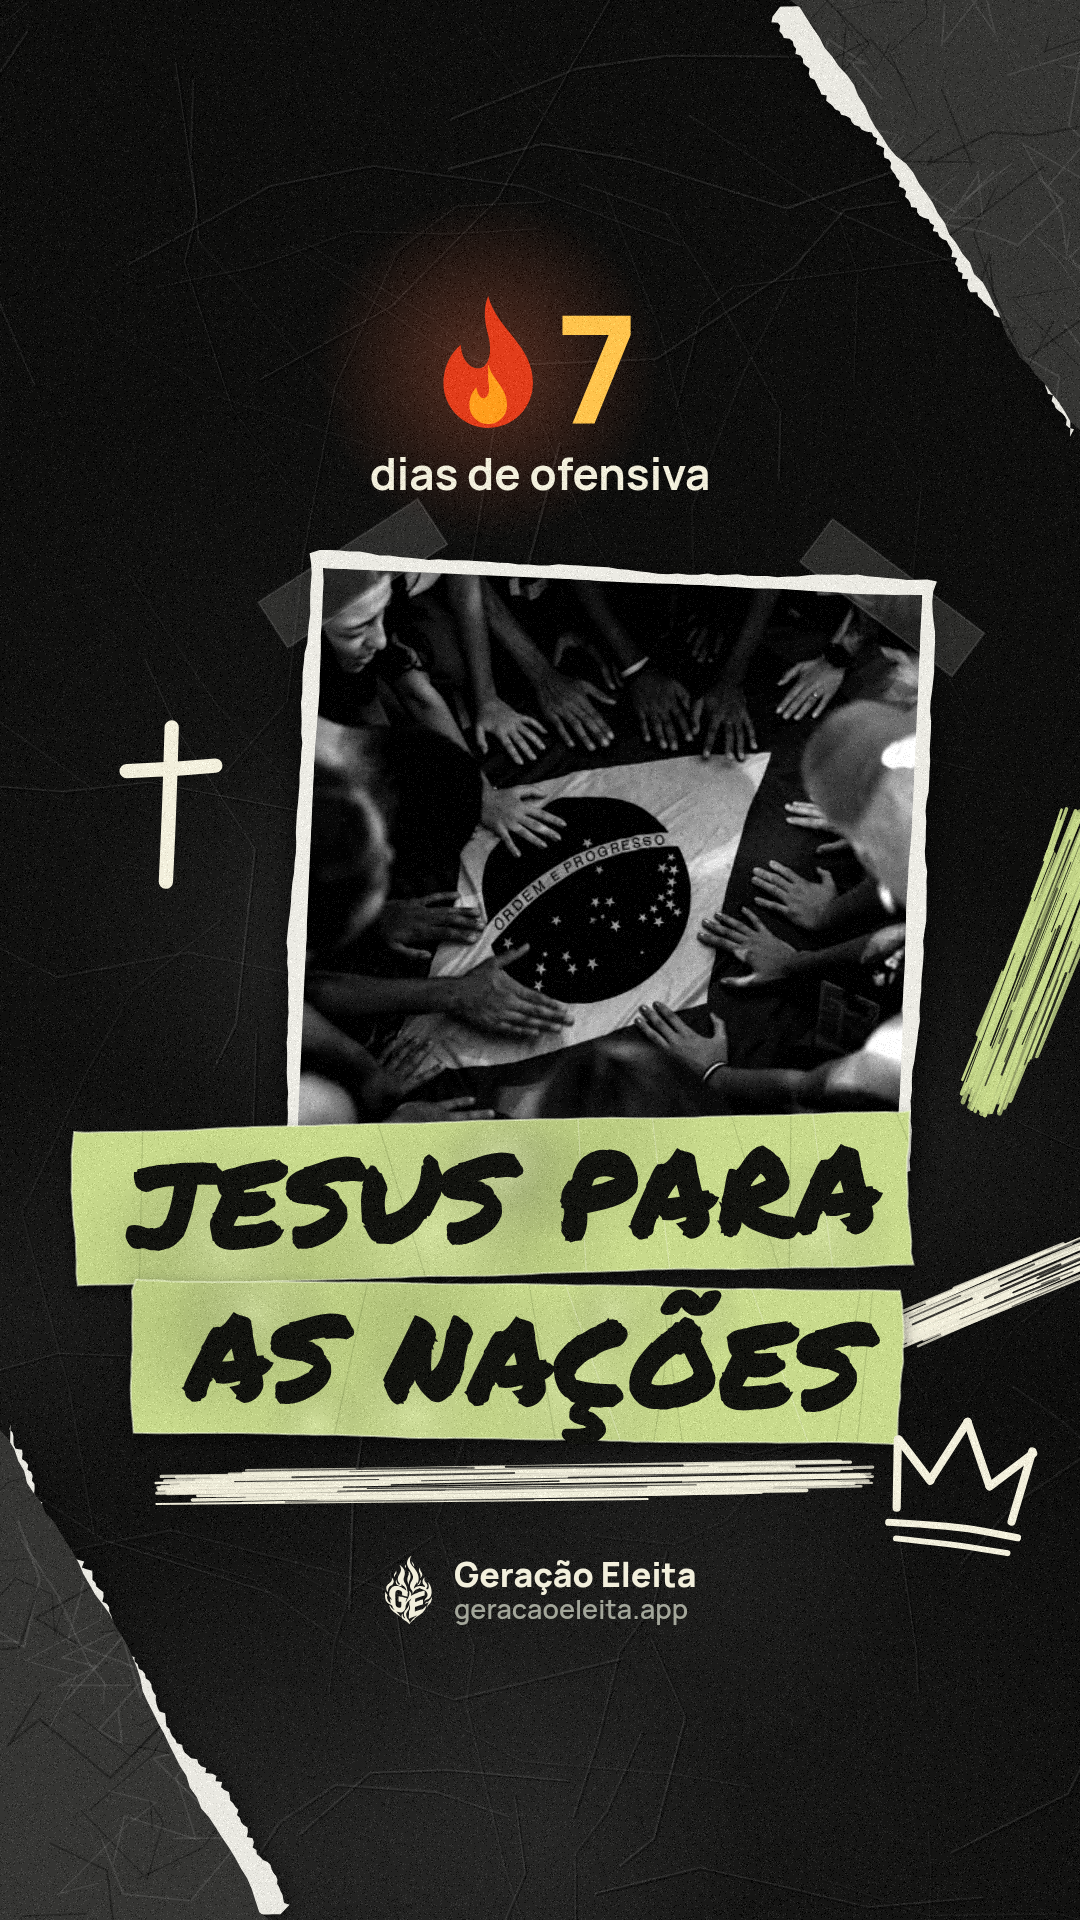
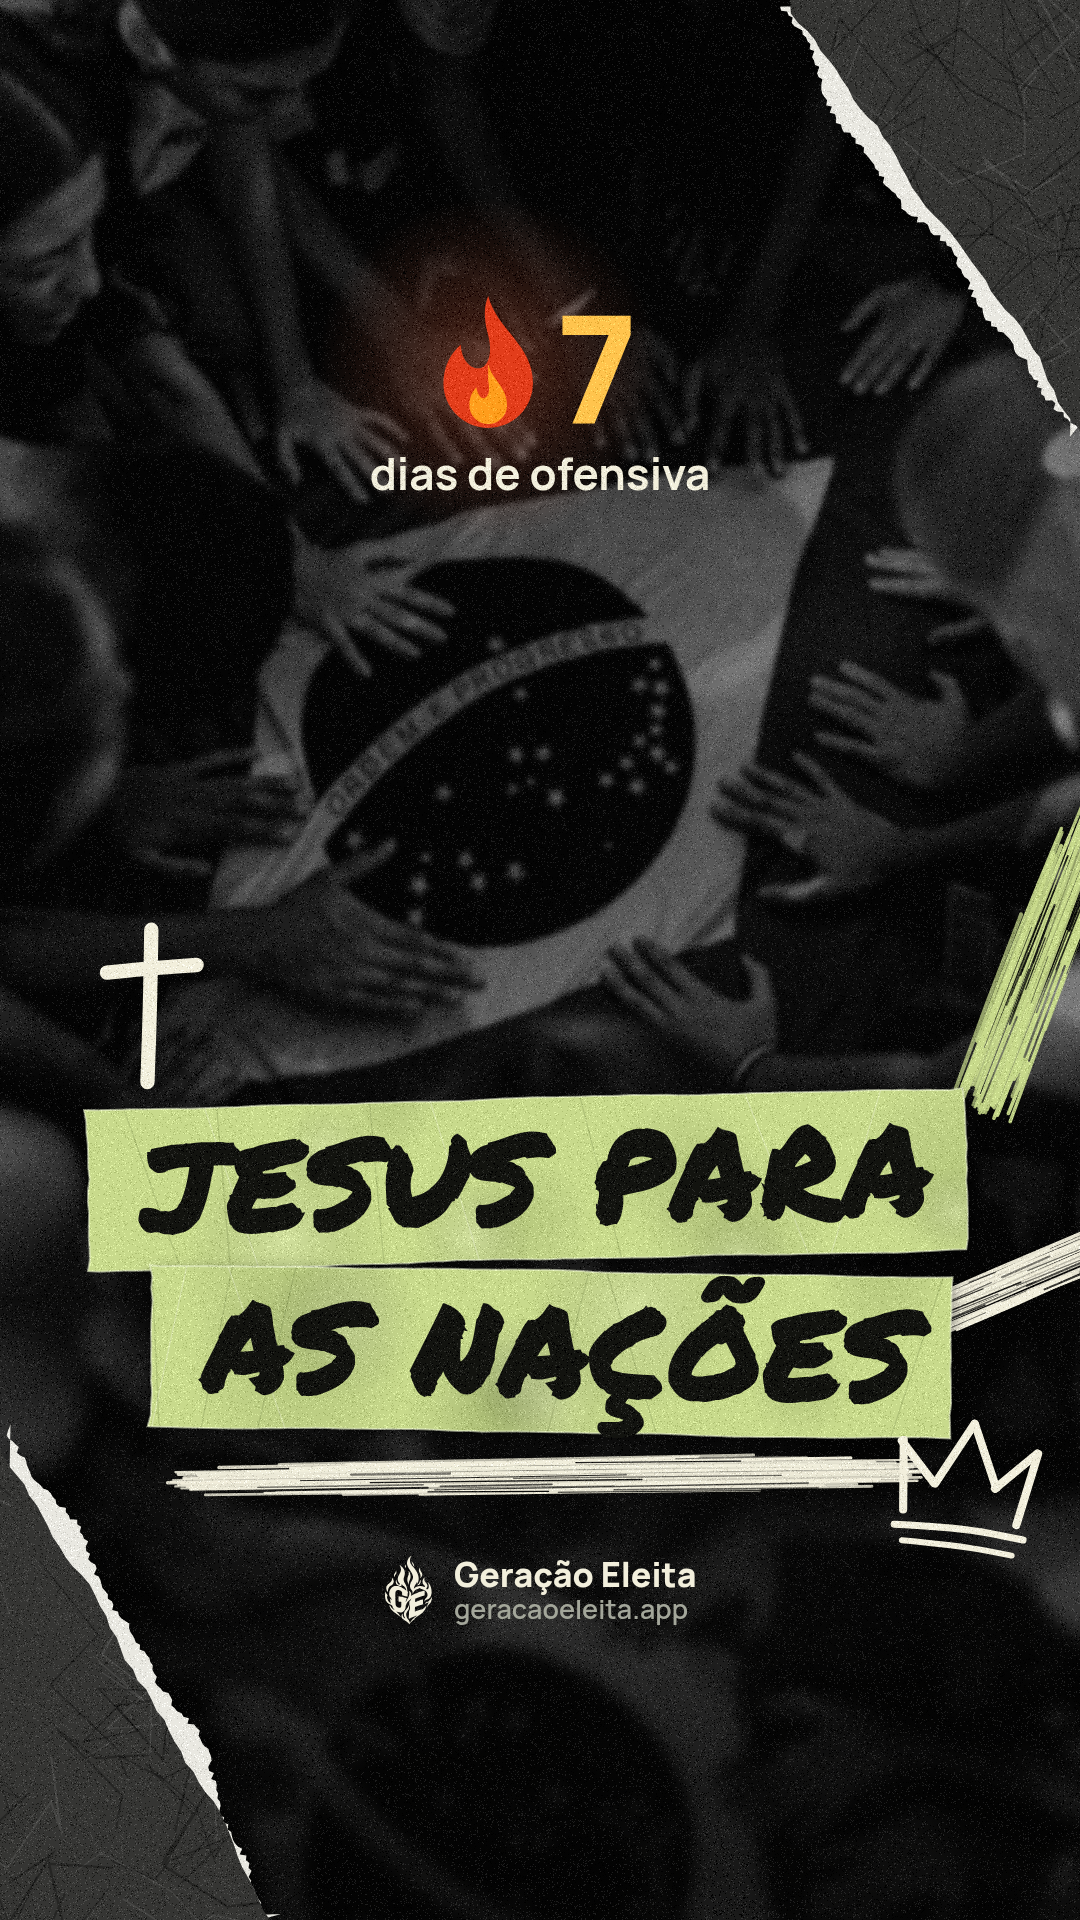
Relógio sem a chama e a foto de nações como fundo da área do meio
O relógio fica sozinho, inteiro e centrado. Em "Jesus para as nações", a foto
dos jovens com a bandeira deixa de ser recorte colado e preenche toda a área
do meio, do topo ao pé, atrás dos papéis rasgados dos cantos: P&B, escurecida,
com vinheta, grão e um desfoque leve; o pé da foto continua em espelho sob o
escuro. As tiras sálvia, a cruz, a coroa e o risco ficam por cima.

Claude-Session: https://claude.ai/code/session_0181e5xzHUW8QLQRgjbfooCS

diff --git a/src/app/01e-story-artes.js b/src/app/01e-story-artes.js
@@ -2187,49 +2187,48 @@
   }
 
   // (z0) Jesus para as nações: no padrão dos posts da marca Geração Eleita (o dono pediu
-  // "mais a cara dele"): o preto de papel amassado, os pedaços de papel rasgado nos cantos com
-  // a borda branca, as pinceladas sálvia e branca, a frase em Permanent Marker preto com cada
-  // linha numa tira de papel sálvia colada, desencontradas, a cruz e a coroa brancas à mão e
-  // o risco de pincel branco embaixo. A foto do dono (as mãos sobre a bandeira, em P&B) vai
-  // como um recorte de papel rasgado colado com fita; ela é pequena (486 px), então vai a
-  // no máximo 1,5 vez. Sem referência: nenhum versículo diz isso com estas palavras na NBV.
-  // O preto amassado: manchas claras bem fracas e os vincos (uma linha clara e, colada nela,
-  // uma escura), como o papel do fundo dos posts.
-  function fundoAmassado(ctx, r) {
+  // "mais a cara dele"), com a foto do dono (as mãos dos jovens sobre a bandeira) de fundo
+  // do story inteiro: em P&B, escurecida, com vinheta e grão. Ela é pequena (486 px) e borra
+  // ampliada; o desfoque leve, de propósito, com o grão por cima, faz dela um fundo e deixa
+  // a frase na frente. Por cima: os pedaços de papel rasgado nos cantos com a borda branca,
+  // as pinceladas sálvia e branca, a frase em Permanent Marker preto com cada linha numa tira
+  // de papel sálvia colada, desencontradas, a cruz e a coroa brancas à mão e o risco de pincel
+  // branco embaixo. Sem referência: nenhum versículo diz isso com estas palavras na NBV.
+  // A foto de fundo de toda a área do meio, do topo ao pé, atrás dos papéis dos cantos:
+  // na largura do story (2,4 vezes), com a bandeira na metade de cima, logo abaixo dos dias;
+  // como a foto ampliada não chega ao pé, o pé dela continua espelhado e mais borrado (some
+  // sob o escuro, atrás das tiras e da marca). Depois, o escuro por cima, mais forte no pé,
+  // e a vinheta.
+  function fotoDeFundo(ctx, img) {
+    const w = L + 90;
+    const h = w * img.height / img.width;
+    const x = (L - w) / 2;
+    const y = -20;
+    const borra = (w / img.width * 1.1).toFixed(1);
     ctx.fillStyle = '#0e0e0d';
     ctx.fillRect(0, 0, L, A);
-    for (let i = 0; i < 14; i++) {
-      const x = r() * L;
-      const y = r() * A;
-      const raio = 160 + r() * 340;
-      const g = ctx.createRadialGradient(x, y, 0, x, y, raio);
-      g.addColorStop(0, 'rgba(255,255,255,' + (0.015 + r() * 0.03).toFixed(3) + ')');
-      g.addColorStop(1, 'rgba(255,255,255,0)');
-      ctx.fillStyle = g;
-      ctx.fillRect(x - raio, y - raio, raio * 2, raio * 2);
-    }
-    ctx.lineCap = 'round';
-    for (let i = 0; i < 70; i++) {
-      let x = r() * L;
-      let y = r() * A;
-      const pts = [[x, y]];
-      let ang = r() * Math.PI * 2;
-      for (let k = 0; k < 3 + Math.floor(r() * 4); k++) {
-        ang += (r() - 0.5) * 1.4;
-        const passo = 40 + r() * 140;
-        x += Math.cos(ang) * passo;
-        y += Math.sin(ang) * passo;
-        pts.push([x, y]);
-      }
-      const forca = 0.035 + r() * 0.06;
-      for (const [dx, cor] of [[0, 'rgba(255,255,255,' + forca.toFixed(3) + ')'], [2, 'rgba(0,0,0,' + (forca * 4).toFixed(3) + ')']]) {
-        ctx.strokeStyle = cor;
-        ctx.lineWidth = 1.2 + r() * 1.2;
-        ctx.beginPath();
-        pts.forEach(([px, py], j) => (j ? ctx.lineTo(px + dx, py + dx) : ctx.moveTo(px + dx, py + dx)));
-        ctx.stroke();
-      }
-    }
+    ctx.save();
+    ctx.imageSmoothingEnabled = true;
+    ctx.imageSmoothingQuality = 'high';
+    ctx.filter = 'grayscale(1) contrast(1.08) blur(' + borra + 'px)';
+    ctx.drawImage(img, x, y, w, h);
+    ctx.filter = 'grayscale(1) contrast(1.08) blur(' + (borra * 3).toFixed(1) + 'px)';
+    ctx.translate(0, 2 * (y + h));
+    ctx.scale(1, -1);
+    ctx.drawImage(img, x, y, w, h);
+    ctx.restore();
+    ctx.fillStyle = 'rgba(8,8,7,.5)';
+    ctx.fillRect(0, 0, L, A);
+    const pe = ctx.createLinearGradient(0, h - 260, 0, A);
+    pe.addColorStop(0, 'rgba(8,8,7,0)');
+    pe.addColorStop(1, 'rgba(8,8,7,.6)');
+    ctx.fillStyle = pe;
+    ctx.fillRect(0, h - 260, L, A);
+    const g = ctx.createRadialGradient(L / 2, A * 0.42, A * 0.24, L / 2, A * 0.46, A * 0.7);
+    g.addColorStop(0, 'rgba(0,0,0,0)');
+    g.addColorStop(1, 'rgba(0,0,0,.7)');
+    ctx.fillStyle = g;
+    ctx.fillRect(0, 0, L, A);
   }
   // Um polígono de borda rasgada: os pontos de cada lado (de canto a canto) mexidos para
   // fora e para dentro, numa onda larga e irregular (a soma de três senos de fase sorteada)
@@ -2381,44 +2380,6 @@
     ctx.restore();
     return w;
   }
-  // A foto como um recorte de papel colado: o papel branco rasgado em volta (a borda
-  // irregular), a foto recortada dentro, a sombra e dois pedaços de fita nos cantos.
-  // corte: [sx, sy, sw, sh] da foto; (cx, cy) é o meio; w a largura do recorte.
-  function recorteFoto(ctx, img, corte, cx, cy, w, giro, r) {
-    const [sx, sy, sw, sh] = corte;
-    const h = w * sh / sw;
-    ctx.save();
-    ctx.translate(cx, cy);
-    ctx.rotate(giro);
-    const m = 14;
-    const fora = bordaRasgada([[[-w / 2 - m, -h / 2 - m], [w / 2 + m, -h / 2 - m], 12], [[w / 2 + m, -h / 2 - m], [w / 2 + m, h / 2 + m], 12],
-      [[w / 2 + m, h / 2 + m], [-w / 2 - m, h / 2 + m], 16], [[-w / 2 - m, h / 2 + m], [-w / 2 - m, -h / 2 - m], 12]], r, 10);
-    ctx.save();
-    ctx.shadowColor = 'rgba(0,0,0,.7)';
-    ctx.shadowBlur = 34;
-    ctx.shadowOffsetY = 14;
-    ctx.fillStyle = '#ecebe4';
-    ctx.fill(fora);
-    ctx.restore();
-    const dentro = bordaRasgada([[[-w / 2, -h / 2], [w / 2, -h / 2], 5], [[w / 2, -h / 2], [w / 2, h / 2], 5],
-      [[w / 2, h / 2], [-w / 2, h / 2], 7], [[-w / 2, h / 2], [-w / 2, -h / 2], 5]], r, 14);
-    ctx.save();
-    ctx.clip(dentro);
-    ctx.imageSmoothingEnabled = true;
-    ctx.imageSmoothingQuality = 'high';
-    ctx.filter = 'grayscale(1) contrast(1.12)';
-    ctx.drawImage(img, sx, sy, sw, sh, -w / 2, -h / 2, w, h);
-    ctx.filter = 'none';
-    ctx.restore();
-    ctx.restore();
-    // as fitas, meio de lado, nos dois cantos de cima
-    const canto = (dx, dy) => [cx + dx * Math.cos(giro) - dy * Math.sin(giro), cy + dx * Math.sin(giro) + dy * Math.cos(giro)];
-    const [ax, ay] = canto(-w / 2 + 30, -h / 2 + 4);
-    const [bx, by] = canto(w / 2 - 30, -h / 2 + 4);
-    fita(ctx, ax, ay, 190, 54, giro - 0.62);
-    fita(ctx, bx, by, 190, 54, giro + 0.6);
-    return h;
-  }
   // A cruz e a coroa brancas, à mão, como os rabiscos dos posts.
   function cruzBranca(ctx, x, y, s, r) {
     tracoAMao(ctx, [[x + s * 0.02, y - s * 0.55], [x, y], [x - s * 0.03, y + s * 0.62]], { r, largura: s * 0.11, cor: LP.creme, segunda: false });
@@ -2442,67 +2403,28 @@
     tracoAMao(ctx, [pt(12, 112), pt(62, 109), pt(108, 111)], { ...traco, largura: 5 * k });
     ctx.restore();
   }
-  // O corte da foto: as mãos em volta da bandeira, sem a gente da borda de baixo.
-  const CORTE_NACOES = [8, 70, 470, 440];
   function arteNacoes(ctx, fotos) {
     const r = sorteio(2819);
-    fundoAmassado(ctx, r);
-    // os papéis dos cantos e as pinceladas, nas margens (longe da frase)
+    if (fotos.nacoes) fotoDeFundo(ctx, fotos.nacoes);
+    else { ctx.fillStyle = '#0e0e0d'; ctx.fillRect(0, 0, L, A); }
+    // os papéis rasgados por cima, nos cantos, como moldura; depois a frase e os rabiscos
     papelDoCanto(ctx, [790, 0], [1080, 430], [[1080, 0]], r);
     papelDoCanto(ctx, [270, 1920], [0, 1430], [[0, 1920]], r);
-    // a foto à direita, um pouco girada, e a cruz ao lado dela; as tiras saem da esquerda
-    // e cobrem o pé da foto, e a coroa fecha o canto de baixo
     pincelSeco(ctx, 1040, 960, 330, 64, -1.2, LP.salvia, r, 20);
     pincelSeco(ctx, 1000, 1290, 230, 40, -0.4, LP.creme, r, 14);
-    const img = fotos.nacoes;
-    if (img) recorteFoto(ctx, img, CORTE_NACOES, 610, 862, 600, 0.045, r);
-    cruzBranca(ctx, 170, 800, 130, r);
-    const tam = 118;
-    const y1 = 1132;
-    const w1 = tiraSalvia(ctx, 'JESUS PARA', 74, y1, tam, -0.025, r);
-    const w2 = tiraSalvia(ctx, 'AS NAÇÕES', 136, y1 + tam * 1.3 - 6, tam, 0.015, r);
-    pincelSeco(ctx, 96 + Math.max(w1, w2) / 2, y1 + tam * 2.6 + 44, Math.max(w1, w2) * 0.86, 34, -0.015, LP.creme, r, 14);
-    coroaBranca(ctx, 900, 1408, 140, 0.14, r);
-  }
-
-  // A chama do relógio, em contorno amarelo no traço à mão do relógio (duas passadas, a
-  // segunda fina e mais fraca, um pouco ao lado): as línguas de fogo e uma linha por dentro,
-  // sem preenchimento nem brilho. (fx, fb) é o meio da base; fh, a altura.
-  // as três línguas (a da esquerda, a do meio, mais alta e virada para a direita, e a
-  // pequena da direita) e, por dentro, um risco só subindo da base, como na arte de referência.
-  // Cada trecho são três pontos de uma curva de Bézier.
-  const CHAMA_FORA = [[0, 0], [-0.36, 0], [-0.5, -0.26], [-0.4, -0.5], [-0.36, -0.6], [-0.36, -0.68], [-0.4, -0.78],
-    [-0.24, -0.7], [-0.14, -0.62], [-0.12, -0.52], [-0.14, -0.72], [-0.02, -0.88], [0.1, -1],
-    [0.08, -0.86], [0.16, -0.74], [0.24, -0.64], [0.28, -0.68], [0.33, -0.72], [0.36, -0.8],
-    [0.52, -0.52], [0.4, -0.02], [0, 0]];
-  const CHAMA_DENTRO = [[0.06, -0.12], [-0.14, -0.16], [-0.12, -0.38], [0.02, -0.54]];
-  function chamaAMao(ctx, fx, fb, fh, r) {
-    const fw = fh * 0.72;
-    const passada = (pts, dx, dy, lw, alfa) => {
-      const q = pts.map(([x, y]) => [fx + x * fw + dx + (r() - 0.5) * 3, fb + y * fh + dy + (r() - 0.5) * 3]);
-      ctx.save();
-      ctx.globalAlpha = alfa;
-      ctx.strokeStyle = LP.amarelo;
-      ctx.lineWidth = lw;
-      ctx.lineCap = 'round';
-      ctx.lineJoin = 'round';
-      ctx.beginPath();
-      ctx.moveTo(q[0][0], q[0][1]);
-      for (let i = 1; i + 2 < q.length; i += 3) ctx.bezierCurveTo(q[i][0], q[i][1], q[i + 1][0], q[i + 1][1], q[i + 2][0], q[i + 2][1]);
-      ctx.stroke();
-      ctx.restore();
-    };
-    for (const [pts, lw] of [[CHAMA_FORA, 8], [CHAMA_DENTRO, 6]]) {
-      passada(pts, 0, 0, lw, 1);
-      passada(pts, lw * 0.45, lw * 0.35, lw * 0.4, 0.5);
-    }
+    cruzBranca(ctx, 150, 1000, 130, r);
+    const tam = 124;
+    const y1 = 1110;
+    const w1 = tiraSalvia(ctx, 'JESUS PARA', 84, y1, tam, -0.025, r);
+    const w2 = tiraSalvia(ctx, 'AS NAÇÕES', 150, y1 + tam * 1.3 - 6, tam, 0.015, r);
+    pincelSeco(ctx, 106 + Math.max(w1, w2) / 2, y1 + tam * 2.6 + 44, Math.max(w1, w2) * 0.86, 34, -0.015, LP.creme, r, 14);
+    coroaBranca(ctx, 905, 1410, 140, 0.14, r);
   }
 
   // (z1) Prepara-te, Ele vem (1 Tessalonicenses 4.16-17): a partir da arte que o dono mandou,
-  // o relógio antigo de algarismos romanos com os ponteiros quase na meia-noite, grande e
-  // cortado pela borda esquerda, à mão em sálvia; ao lado, perto dele, a chama em contorno
-  // amarelo no mesmo traço (a única cor quente; a chama cheia com halo parecia emoji).
-  // Embaixo, PREPARA-TE menor em creme e ELE VEM em amarelo com o risco.
+  // o relógio antigo de algarismos romanos com os ponteiros quase na meia-noite, inteiro,
+  // centrado e à mão em sálvia (sem a chama: o dono preferiu só o relógio). Embaixo,
+  // PREPARA-TE menor em creme e ELE VEM em amarelo com o risco.
   function arteRelogio(ctx) {
     fundoLanding(ctx);
     const r = sorteio(1617);
@@ -2510,6 +2432,12 @@
     // ---- o relógio ----
     const ox = 150;
     const oy = 808;
+    // sem a chama, o relógio vem inteiro e centrado (desenhado em ox, oy e trazido para o meio)
+    const [px, py, k] = [L / 2, 806, 0.97];
+    ctx.save();
+    ctx.translate(px, py);
+    ctx.scale(k, k);
+    ctx.translate(-ox, -oy);
     const R = 300;
     // o aro: duas voltas grossas, e entre elas os riscos dos minutos
     tracoAMao(ctx, pontosElipse(ox, oy, R, R, { r, n: 60, mexe: 0.008 }), { r, largura: 8, fechar: true });
@@ -2556,8 +2484,7 @@
     ctx.beginPath();
     ctx.arc(ox, oy, 13, 0, Math.PI * 2);
     ctx.fill();
-    // ---- a chama, à direita, no mesmo traço à mão ----
-    chamaAMao(ctx, 625, 1000, 280, r);
+    ctx.restore();
     // ---- embaixo, o título ----
     const y0 = 1150;
     rotuloLanding(ctx, '1 Tessalonicenses 4.16-17', cx, y0, 30);
@@ -2716,7 +2643,7 @@
     avivados: { fundo: [LP.preto], fotos: ['culto'], tema: TEMA_LP, desenhar: arteAvivados, grao: [18, 1126] },
     naotemas: { fundo: [LP.preto], fotos: ['cruz'], tema: TEMA_LP, desenhar: arteNaoTemas, grao: [18, 4110] },
     rei: { fundo: [LP.preto], fotos: ['abertura'], tema: TEMA_LP, desenhar: arteRei, grao: [18, 777] },
-    nacoes: { fundo: [LP.preto], fotos: ['nacoes'], tema: TEMA_LP, desenhar: arteNacoes, grao: [18, 2819] },
+    nacoes: { fundo: [LP.preto], fotos: ['nacoes'], tema: TEMA_LP, desenhar: arteNacoes, grao: [26, 2819] },
     relogio: { fundo: [LP.preto], tema: TEMA_LP, desenhar: arteRelogio, grao: [18, 1617] },
     toco: { fundo: [LP.preto], tema: TEMA_LP, desenhar: arteToco, grao: [18, 1479] },
     porta: { fundo: ['#ebe0cb', { x: L / 2, y: 1100, r: 1000, cor: 'rgba(255,248,230,.5)' }], caixa: [600, 1640], tema: CLARO, desenhar: artePorta, grao: [16, 320] },

diff --git a/design/compartilhar/LEIA.md b/design/compartilhar/LEIA.md
@@ -140,3 +140,13 @@ com grão, Oswald creme com a última linha em amarelo e o risco, rótulo sálvi
   amarelo no traço do relógio: três línguas com uma gota por dentro (a gota ainda lembrava
   emoji), duas línguas com um risco por dentro, e três línguas com o risco (escolhida),
   menor e mais perto do relógio. A frase voltou a ter `arte: 'relogio'`.
+
+Retorno do dono:
+- **relogio**: a chama sai de vez. Das duas posições (o relógio maior cortado pela esquerda,
+  que encostava no "dias de ofensiva", e o relógio inteiro no meio), ficou o do meio.
+- **nacoes**: a foto dos jovens com a bandeira deixa de ser recorte colado e vira o fundo de
+  toda a área do meio, do topo ao pé, atrás dos papéis rasgados dos cantos: P&B, escurecida
+  pela metade, com vinheta e grão e um desfoque leve de propósito (ampliada 2,4 vezes). Das
+  duas variantes, a foto cobrindo a altura toda (3,5 vezes) cortava a bandeira e borrava
+  demais; a foto na largura deixava a bandeira clara no alto, mas apagava no preto embaixo.
+  Ficou a foto na largura com o pé continuado em espelho, mais borrado, sob o escuro.
